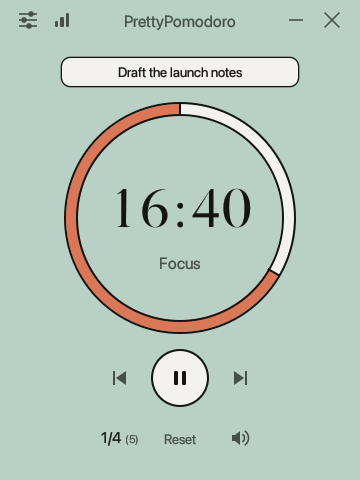
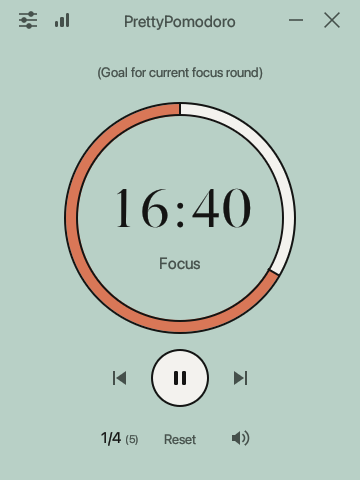
Show the goal as plain text and draw the site's screenshot as vectors
The goal field has no box of its own and its placeholder reads
"(Goal for current focus round)". After a round, the tick box sits just
before the goal text.

Changed region(s): [[0.1528, 0.0938, 0.8556, 0.1875]]

diff --git a/docs/index.html b/docs/index.html
@@ -103,8 +103,8 @@ h1 {
 .fine { margin: 24px 0 0; color: var(--text-muted); font-size: 0.9375rem; }
 
 .shot { margin: 0; justify-self: center; width: 100%; max-width: 360px; }
-.shot img {
-  display: block; width: 100%; max-width: 360px; height: auto;
+.shot svg {
+  display: block; width: 100%; max-width: 360px; height: auto; overflow: hidden;
   border: 2px solid var(--canvas); border-radius: 24px;
 }
 
@@ -221,7 +221,44 @@ footer p { margin: 0; }
       </div>
 
       <figure class="shot">
-        <img src="editorial-sage.png" width="360" height="480" alt="The PrettyPomodoro window in the Editorial Sage theme: a sage green card with a terracotta timer ring reading 16:40 for a focus round, and the goal Draft the launch notes in a box above it.">
+        <!-- The app's timer in its Editorial Sage theme, drawn as vectors so it stays
+             sharp at any size. Keep it in step with the app when the timer page changes. -->
+        <svg viewBox="0 0 360 480" role="img" aria-labelledby="shot-title" xmlns="http://www.w3.org/2000/svg">
+          <title id="shot-title">The PrettyPomodoro window in the Editorial Sage theme: a sage green card with a terracotta timer ring reading 16:40 for a focus round, a place to type the round's goal above it, and restart, pause and skip buttons below.</title>
+          <rect width="360" height="480" fill="#b8d0c6"/>
+          <g fill="none" stroke="#45504b" stroke-width="1.6">
+            <path d="M19 14h18M19 20h18M19 26h18"/>
+            <path d="M289 20h14M325 13l14 14M325 27l14-14"/>
+          </g>
+          <g fill="#45504b">
+            <circle cx="31" cy="14" r="2.8"/><circle cx="24" cy="20" r="2.8"/><circle cx="29" cy="26" r="2.8"/>
+            <rect x="54.900" y="21" width="3.200" height="6" rx=".5"/><rect x="60.400" y="17" width="3.200" height="10" rx=".5"/><rect x="65.900" y="13" width="3.200" height="14" rx=".5"/>
+            <path d="M126 371l-10 7 10 7zM113 371h2v14h-2zM234 371l10 7-10 7zM245 371h2v14h-2z"/>
+            <path d="M231.500 435h4v6h-4zM235 435l5-4v14l-5-4z"/>
+          </g>
+          <g fill="none" stroke="#45504b" stroke-width="1.6" stroke-linecap="round">
+            <path d="M242.800 434.470a4.500 4.500 0 0 1 0 7.060M245.280 431.340a8.500 8.500 0 0 1 0 13.320"/>
+          </g>
+          <g font-family="'DM Sans', system-ui, sans-serif" text-anchor="middle" fill="#45504b">
+            <text x="180" y="25.500" font-size="16">PrettyPomodoro</text>
+            <text x="180" y="76" font-size="14">(Goal for current focus round)</text>
+            <text x="180" y="267.500" font-size="16">Focus</text>
+            <text x="180" y="443" font-size="14">Reset</text>
+            <text x="113" y="443.500" font-size="15" fill="#141413">1/4</text>
+            <text x="135" y="442.500" font-size="11">(5)</text>
+          </g>
+          <circle cx="180" cy="218" r="108" fill="none" stroke="#f3f2ee" stroke-width="12"/>
+          <path d="M273.530 272A108 108 0 1 1 180 110" fill="none" stroke="#d97757" stroke-width="12"/>
+          <g fill="none" stroke="#141413" stroke-width="2">
+            <circle cx="180" cy="218" r="114"/><circle cx="180" cy="218" r="102"/>
+            <path d="M180 104v12M268.330 269l10.400 6"/>
+          </g>
+          <g font-family="Newsreader, Georgia, serif" font-weight="500" font-size="56" text-anchor="middle" fill="#141413">
+            <text x="123.500" y="227">1</text><text x="154.500" y="227">6</text><text x="180" y="224">:</text><text x="205.500" y="227">4</text><text x="236.500" y="227">0</text>
+          </g>
+          <circle cx="180" cy="378" r="27" fill="#f3f2ee" stroke="#141413" stroke-width="2"/>
+          <path d="M174.250 371h3.500v14h-3.500zM182.250 371h3.500v14h-3.500z" fill="#141413"/>
+        </svg>
       </figure>
     </section>
 

diff --git a/src/ui/timer.rs b/src/ui/timer.rs
@@ -238,16 +238,48 @@ pub fn show(ui: &mut Ui, rect: Rect, core: &mut Core, theme: &Theme) {
     }
 }
 
-/// The goal of the current focus round: a text box above the ring. Once the
-/// round has finished the goal is fixed and gets a box on its left to tick it
-/// off in.
+/// The goal of the current focus round: plain text on the background, above
+/// the ring, that can be typed over. Once the round has finished the goal is
+/// fixed and gets a box on its left to tick it off in.
 fn goal_box(ui: &mut Ui, rect: Rect, core: &mut Core, theme: &Theme) {
     let row = Rect::from_center_size(pos2(rect.center().x, rect.top() + 72.0), vec2(236.0, 28.0));
-    let tick = Rect::from_min_max(row.min, pos2(row.left() + 28.0, row.bottom()));
-    let finished = core.phase != Phase::Focus;
-    let frame = if finished { row.with_min_x(tick.right() + 6.0) } else { row };
     let id = ui.id().with("goal");
     let p = ui.painter().clone();
+    let font = FontId::proportional(14.0);
+    // A row of text has more room above its letters than below; nudged up, the
+    // letters sit level with the middle of the tick box.
+    let lift = vec2(0.0, 1.0);
+
+    if core.phase == Phase::Focus {
+        // The field is exactly one row tall and centred in its row by hand;
+        // left to itself the text sits against the top.
+        let row_height = ui.fonts(|f| f.row_height(&font));
+        let field = Rect::from_center_size(row.center() - lift, vec2(row.width(), row_height));
+        let edit = egui::TextEdit::singleline(&mut core.goal)
+            .id(id)
+            .frame(false)
+            .hint_text(RichText::new("(Goal for current focus round)").color(theme.text_dim))
+            .font(font)
+            .text_color(theme.text)
+            .horizontal_align(Align::Center)
+            .margin(vec2(0.0, 0.0))
+            .desired_width(field.width())
+            .char_limit(80);
+        ui.put(field, edit);
+        return;
+    }
+
+    // The goal on one line, cut short with an ellipsis if it doesn't fit, with
+    // the tick box just before it; the pair is centred.
+    let (side, gap) = (28.0, 8.0);
+    let mut job = egui::text::LayoutJob::simple_singleline(core.goal.trim().to_owned(), font, theme.text);
+    job.wrap = egui::text::TextWrapping::truncate_at_width(row.width() - side - gap);
+    let galley = p.layout_job(job);
+    let left = row.center().x - (side + gap + galley.size().x) / 2.0;
+    let tick = Rect::from_min_size(pos2(left, row.top()), vec2(side, side));
+    let text_at = pos2(tick.right() + gap, row.center().y - galley.size().y / 2.0) - lift;
+    p.galley(text_at, galley, theme.text);
+
     let edge = |on: bool, color| {
         let idle = mix(theme.background, theme.muted, 0.45);
         Stroke::new(1.0_f32, if on { color } else { idle })
@@ -260,37 +292,6 @@ fn goal_box(ui: &mut Ui, rect: Rect, core: &mut Core, theme: &Theme) {
             p.rect_stroke(rect, 8.0, stroke, egui::StrokeKind::Inside);
         }
     };
-    let font = FontId::proportional(14.0);
-    // A row of text has more room above its letters than below; nudged up, the
-    // letters sit in the middle of the box.
-    let text_center = frame.center() - vec2(0.0, 1.0);
-
-    if !finished {
-        boxed(frame, edge(ui.memory(|m| m.has_focus(id)), theme.accent));
-        // The field is exactly one row tall and centred in its box by hand;
-        // left to itself the text sits against the top.
-        let row_height = ui.fonts(|f| f.row_height(&font));
-        let field = Rect::from_center_size(text_center, vec2(frame.width() - 20.0, row_height));
-        let edit = egui::TextEdit::singleline(&mut core.goal)
-            .id(id)
-            .frame(false)
-            .hint_text(RichText::new("Goal for this focus round").color(theme.text_dim))
-            .font(font)
-            .text_color(theme.text)
-            .horizontal_align(Align::Center)
-            .margin(vec2(0.0, 0.0))
-            .desired_width(field.width())
-            .char_limit(80);
-        ui.put(field, edit);
-        return;
-    }
-
-    // The goal on one line, cut short with an ellipsis if it doesn't fit.
-    boxed(frame, edge(false, theme.accent));
-    let mut job = egui::text::LayoutJob::simple_singleline(core.goal.trim().to_owned(), font, theme.text);
-    job.wrap = egui::text::TextWrapping::truncate_at_width(frame.width() - 20.0);
-    let galley = p.layout_job(job);
-    p.galley(text_center - galley.size() / 2.0, galley, theme.text);
 
     // Only a goal that has been typed can be ticked off.
     let has_goal = !core.goal.trim().is_empty();

diff --git a/src/capture.rs b/src/capture.rs
@@ -96,7 +96,8 @@ impl Capture {
 
         // "running" shows the timer a third of the way through a focus round.
         if self.page.as_deref() == Some("running") {
-            core.goal = self.goal();
+            // No goal typed yet, so the placeholder shows, unless one is given.
+            core.goal = std::env::var("POMO_GOAL").unwrap_or_default();
             let started = Instant::now().checked_sub(Duration::from_secs(8 * 60 + 20));
             core.toggle(started.unwrap_or_else(Instant::now));
         }
